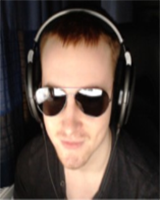
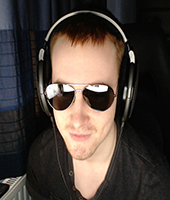
update images class

diff --git a/includes/about/content.php b/includes/about/content.php
@@ -11,10 +11,10 @@
 		<img src="img/java_main.png"/>
 	</div>  
 	
- <h1>About the Staff</h1>
+ <h1>About the Team</h1>
 	<div class="col-md-4">
 			<h2>Katie Wood</h2>
-			<img src="img/katie.png"/>
+			<img src="img/katie.png"/ class="img-circle">
            	<p>Facebook: www.facebook.com/katieLMAO </p>
             <p>Twitter: www.twitter.com/katieee94xxx </p>
     </div>
@@ -22,21 +22,21 @@
   
     <div class="col-md-4">
             <h2>Jordan Taylor</h2>
-            <img src="img/jordan.png"/>
+            <img src="img/jordan.png"/ class="img-circle">
            <p>Facebook: www.facebook.com/JTaylor69 </p>
             <p>Twitter: www.twitter.com/JTaylor69 </p>
     </div>
     
     <div class="col-md-4">
             <h2>Ping Sam</h2>
-            <img src="img/ping.png"/>
+            <img src="img/ping.png"/ class="img-circle">
             <p>Facebook: www.facebook.com/ping.sam.73 </p>
             <p>Twitter: N/A </p>
           </div>
     
 <div class="col-md-4">
             <h2>Gurnam Sangat</h2>
-            <img src="img/gurnam.png"/>
+            <img src="img/gurnam.png"/ class="img-circle">
             <p>Facebook: www.facebook.com/gurnam.sangat </p>
             <p>Twitter: www.twitter.com/Gurnam17 </p>
             
@@ -44,12 +44,11 @@
     
     <div class="col-md-4">
             <h2>Grant Neal</h2>
-            <img src="img/grant.png"/>
+            <img src="img/grant.png"/ class="img-circle">
             <p>Facebook: N/A</p>
             <p>Twitter: N/A</p>
     </div>
-    
+    </div>
     <hr>
 
-</div>
 <!-- /.container -->
